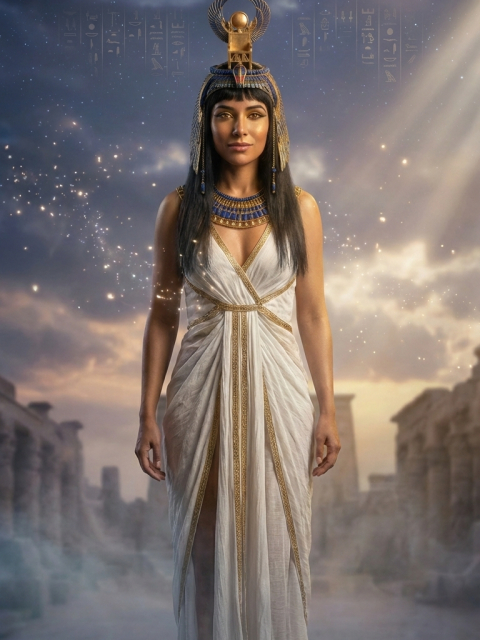
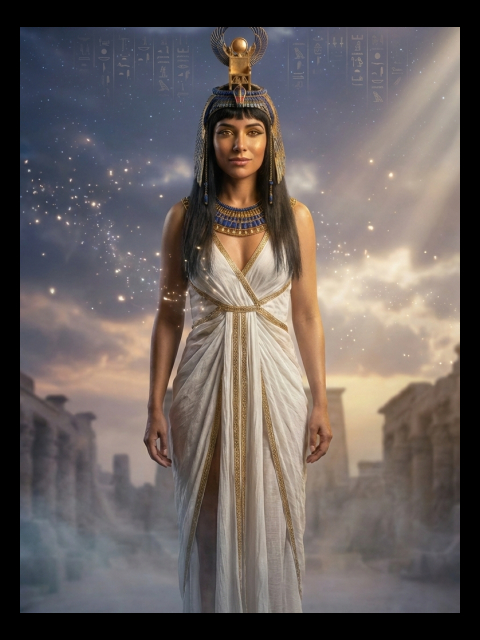
border added

diff --git a/process-target-bordered.js b/process-target-bordered.js
@@ -1,0 +1,26 @@
+import { Jimp } from 'jimp';
+
+async function processImage() {
+  try {
+    const image = await Jimp.read('isis-test.png');
+    // Crop center 3:4 area (768x1024)
+    image.crop({ x: 0, y: 176, w: 768, h: 1024 });
+    
+    // Resize the goddess graphic slightly smaller to fit inside the border
+    image.resize({ w: 440, h: 586 });
+    
+    // Create a 480x640 black background canvas
+    const background = new Jimp({ width: 480, height: 640, color: 0x000000ff });
+    
+    // Composite the cropped goddess image in the center of the black frame
+    background.composite(image, 20, 27);
+    
+    // Write the final target image
+    await background.write('public/targets/isis-tracker.jpg');
+    console.log('Successfully generated bordered target at public/targets/isis-tracker.jpg');
+  } catch (err) {
+    console.error('Error processing image:', err);
+  }
+}
+
+processImage();